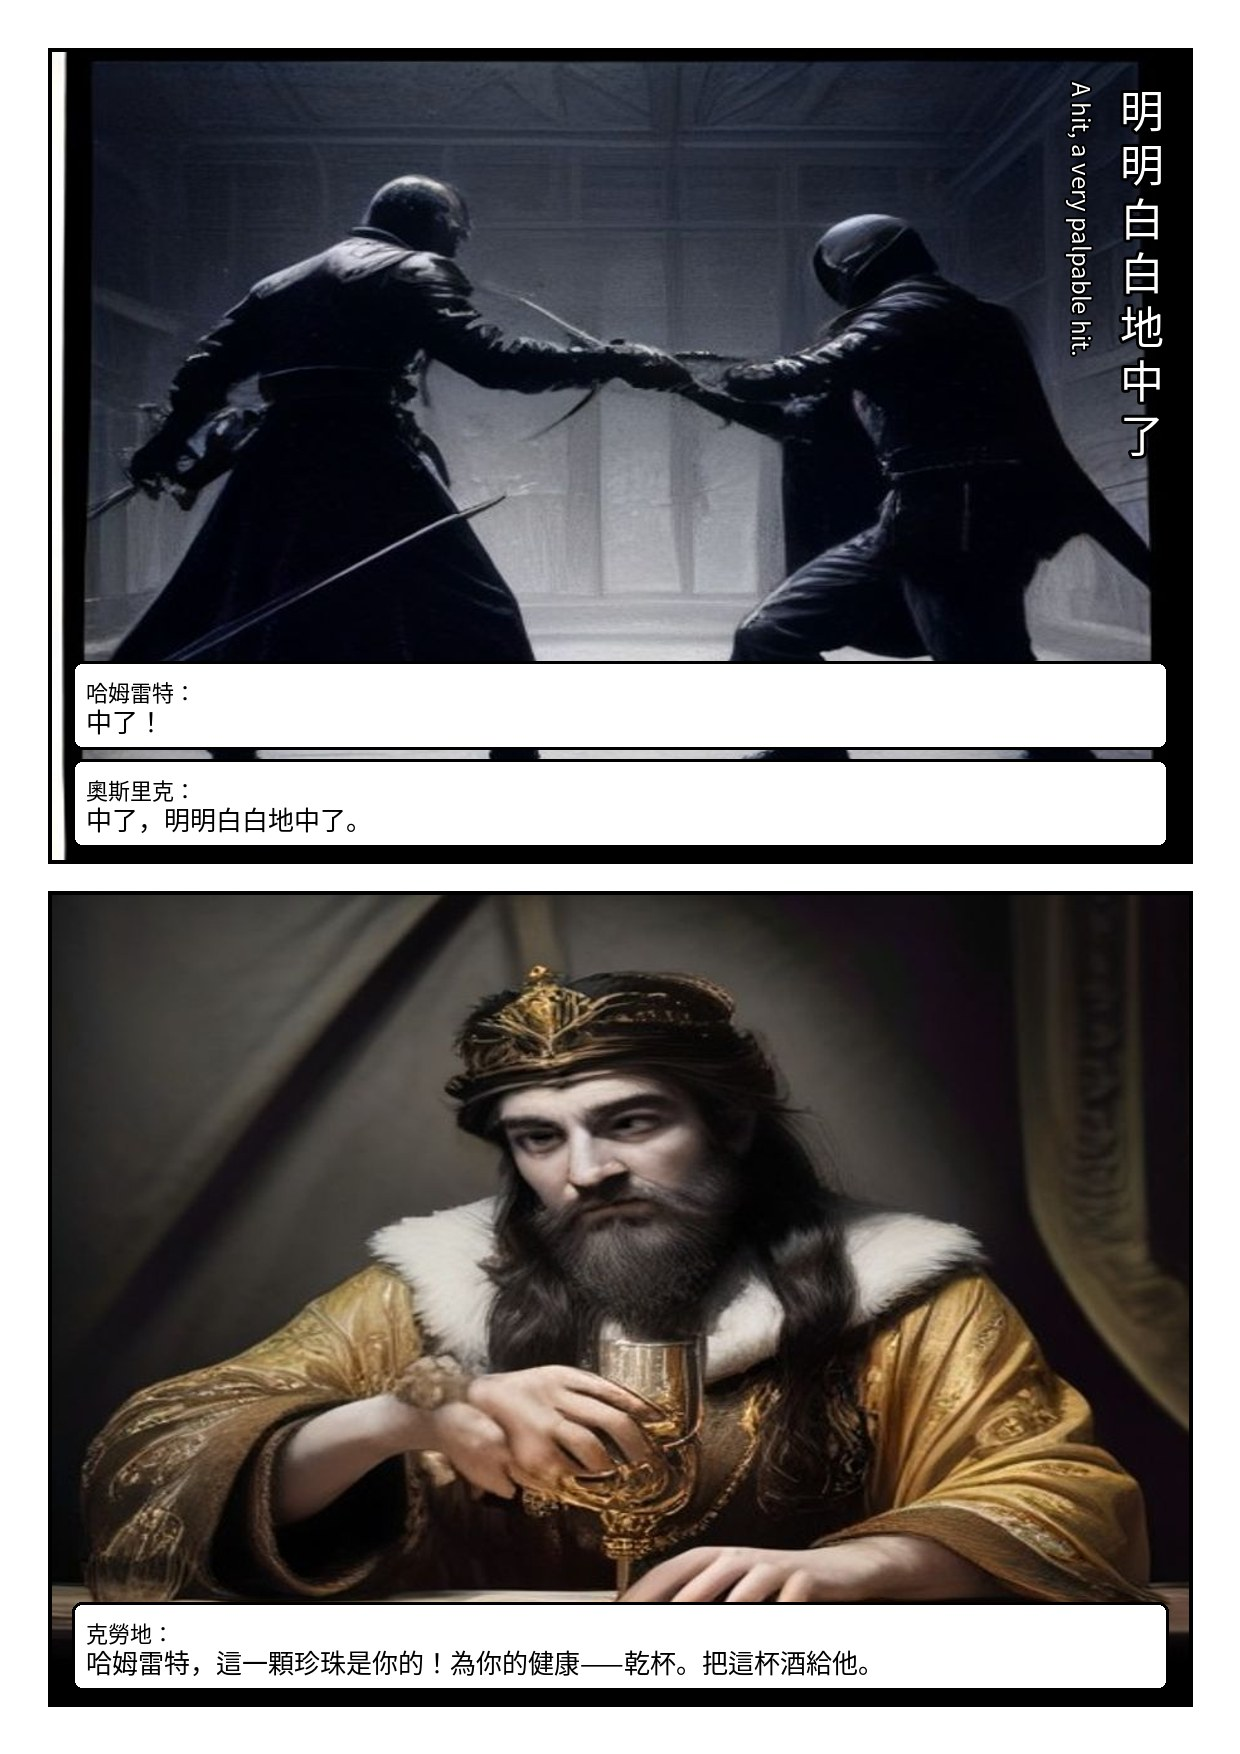
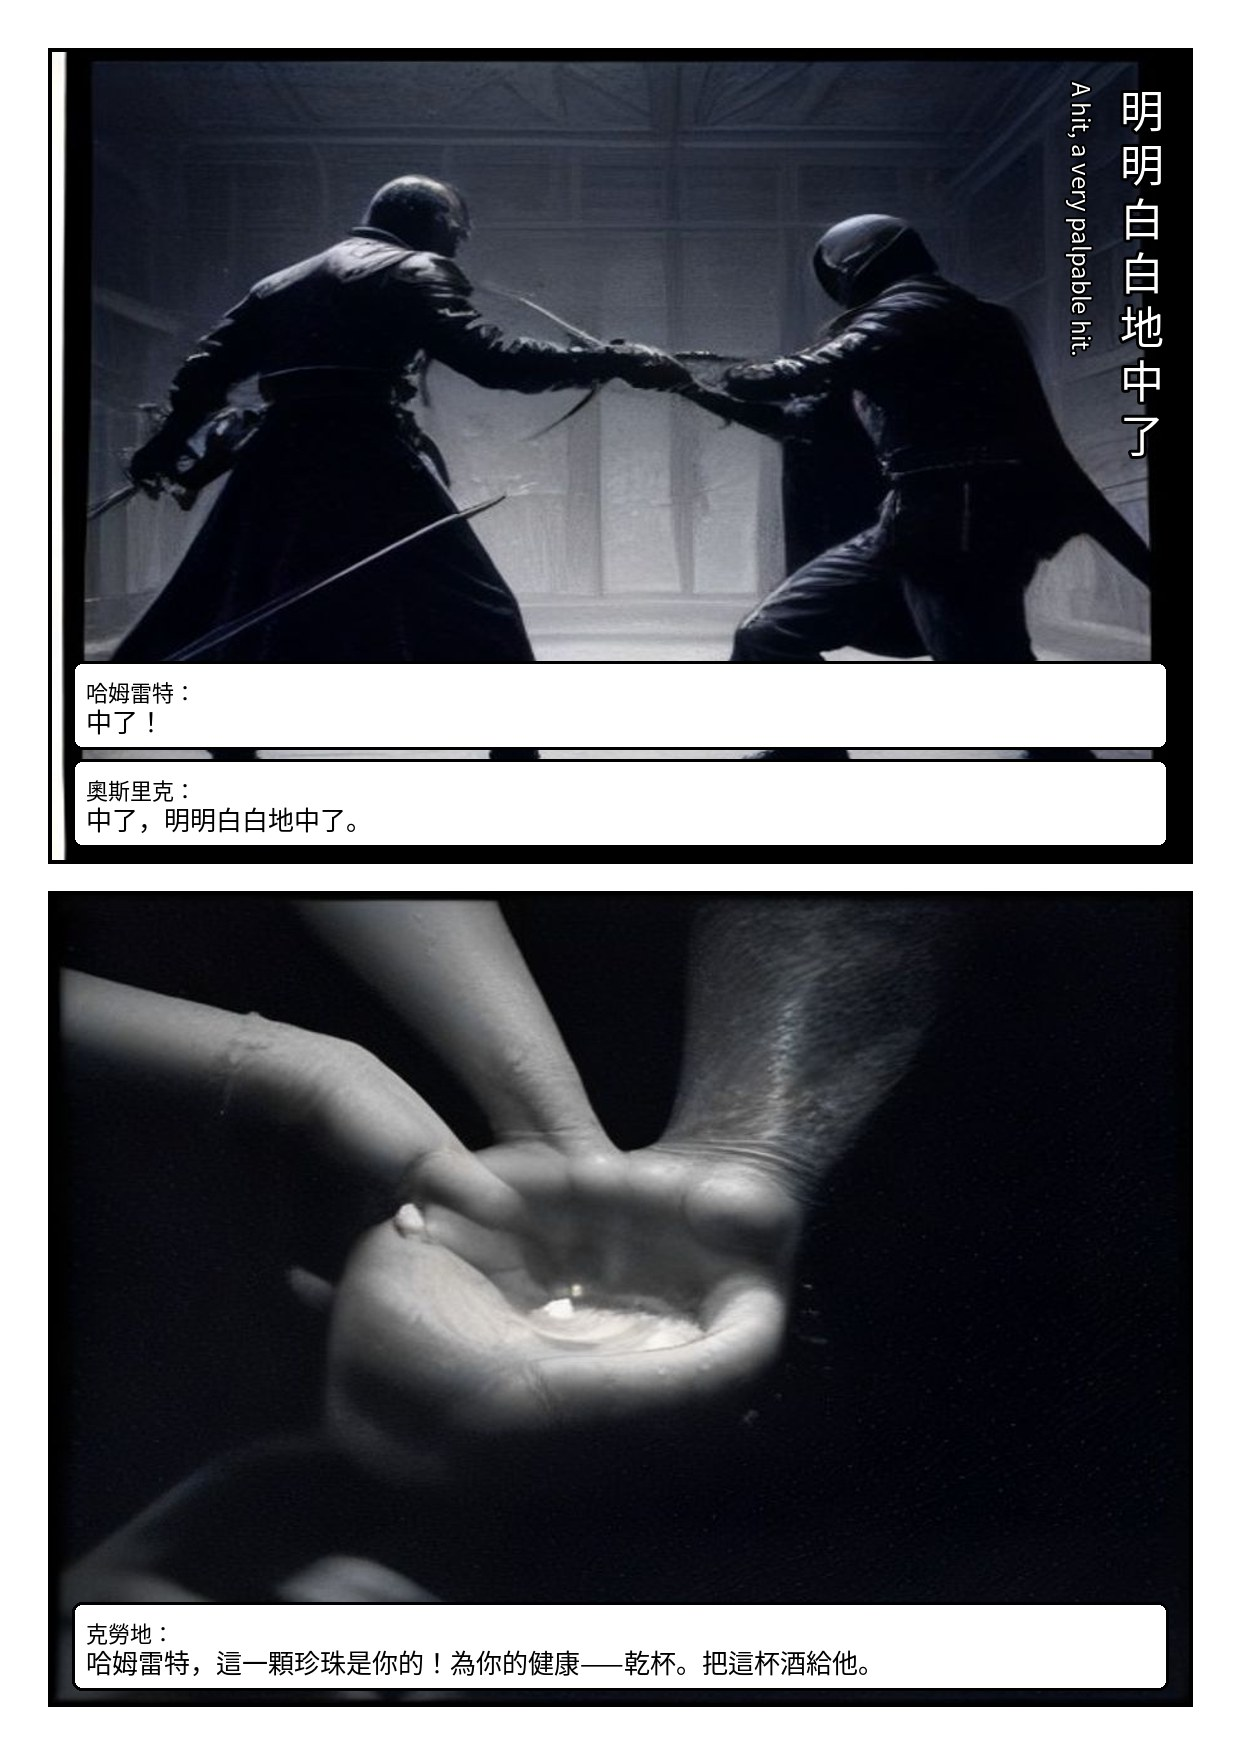
feat: 臉的特權——正面臉只留主角，鬼魂永不露臉，配角改剪影與手部道具（14 格）
- 鬼魂六格全改無臉呈現：空面甲兩點幽藍、盔甲隨雞鳴霧散、崖頂背影、
  岩壁巨影、床幔幽藍冷光——1-1 現身頁改巨型甲冑聳立、人為腳下小剪影
- 克勞地七格改剪影/手部：戒指手擱金冠、背影跪禱、燭前黑剪影、
  珍珠墜杯 macro、掐扶手白指節、劍尖外的攤掌、落上黑肩的手
- 雷歐提斯悲慟改拳中顫抖的迷迭香＋落劍
- 原則入 characters.md 與 prompt-notes

Claude-Session: https://claude.ai/code/session_01KKsnwbchHmyABmvTQeGnhX

Changed region(s): [[0.0306, 0.4926, 0.9806, 0.9852], [0.3371, 0.9544, 0.3677, 0.9852], [0.2758, 0.9544, 0.3065, 0.9852]]

diff --git a/docs/prompt-notes.md b/docs/prompt-notes.md
@@ -125,6 +125,10 @@
 - 第二輪（場景/劇情/動作整合，13 格）：把「人物擺拍」改成「場景裡發生的事」——
   婚宴斟酒祝酒、替兒子理衣領、拖著女兒往門外走、旋轉梯追問、屋頂對鷗張臂、窗前轉戒指。
   行為戲（手上有事做）是救對白格的最有效手段。
+- **「臉的特權」原則**（2026-08-01，讀者回饋定案）：正面臉只留給該劇主角
+  （哈姆雷特/奧菲莉亞），鬼魂永不露臉（空面甲＋兩點幽藍／巨影／冷光滲出），
+  配角靠剪影與手部道具（戒指手＋金冠、掐扶手白指節、拳中迷迭香）。
+  1-1 鬼魂現身頁改無臉巨型甲冑後戲劇性大增——「不給臉」常常比給臉更有力。
 - **物件主角格：臉部 token 必須整個退場**（Yorick 三修實錘）：格內只要出現角色臉部描述，
   臉就搶走主體——「手持骷髏」連敗三輪。第三修把王子移出畫面、純骷髏 macro shot 一次成功，
   台詞由畫外音承接。同理適用一切「道具當主角」的格（王冠、手帕、毒瓶）。

diff --git a/docs/characters.md b/docs/characters.md
@@ -45,6 +45,15 @@
 | 羅森克蘭茲 | `Rosencrantz, a plump smooth-faced courtier with a short blond bowl-cut and an eager ingratiating smile` | 金髮碗蓋頭 | 2-1to2 |
 | 吉爾登斯坦 | `Guildenstern, a thin courtier with lank dark hair and nervous darting eyes` | 油瘦垂髮驚眼 | 2-1to2 |
 
+### 臉的特權（哈姆雷特，2026-08-01 定案）
+
+- **正面臉只留給哈姆雷特與奧菲莉亞**（情感核心）。
+- **鬼魂永不露臉**：掀開的面甲裡只有黑暗＋兩點幽藍；其餘用巨影、盔甲霧散、
+  幽藍冷光滲出（床幔）等載體呈現——先王的臉是全劇最大的懸念，不給。
+- 配角（克勞地/葛簇特/波隆尼/雷歐提斯）用剪影、手部、道具講戲：
+  戴戒指的手＋金冠、掐扶手的白指節、拳中顫抖的迷迭香。
+- 例外：刻意的重音特寫（名句題字頁）每頁至多一格，且優先給主角。
+
 ### 全劇風格（哈姆雷特）
 
 - `style_suffix`：`black and white ink comic style, high contrast, heavy shadows, cold gothic atmosphere`
